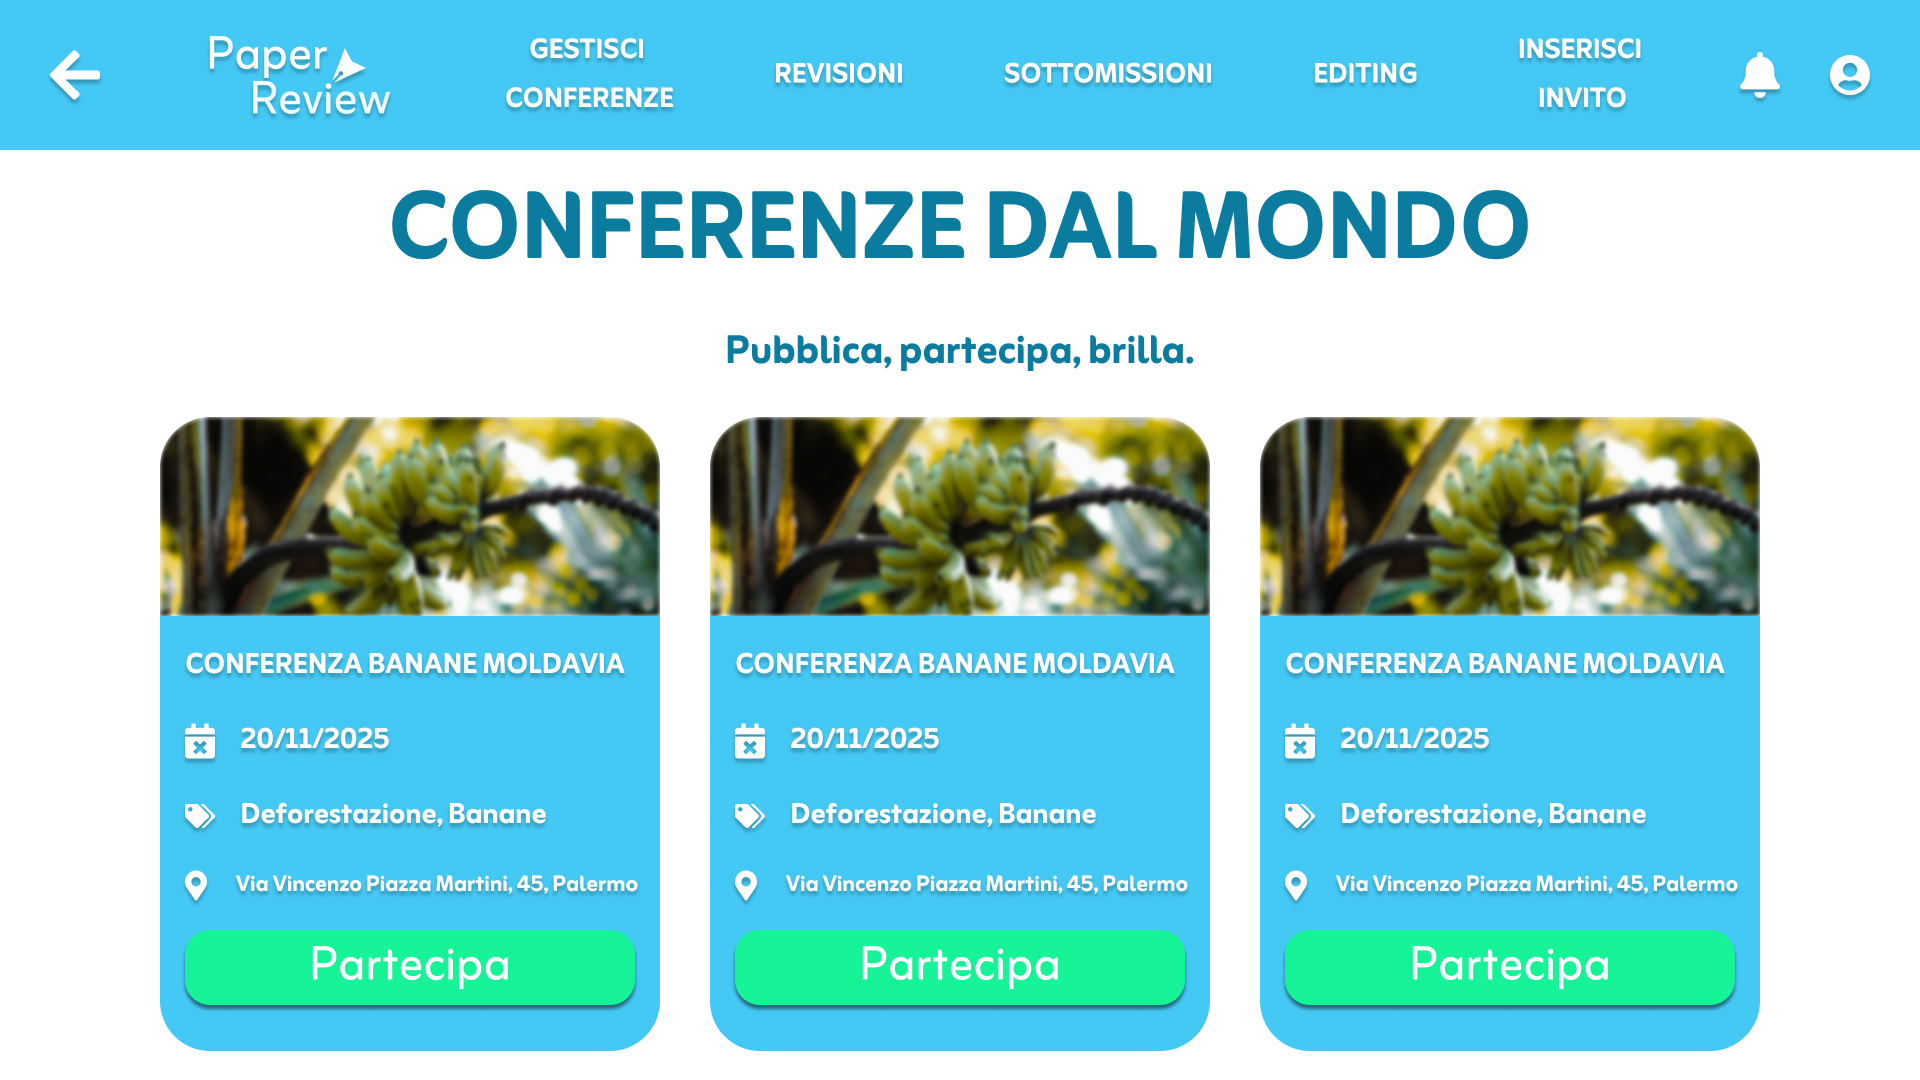
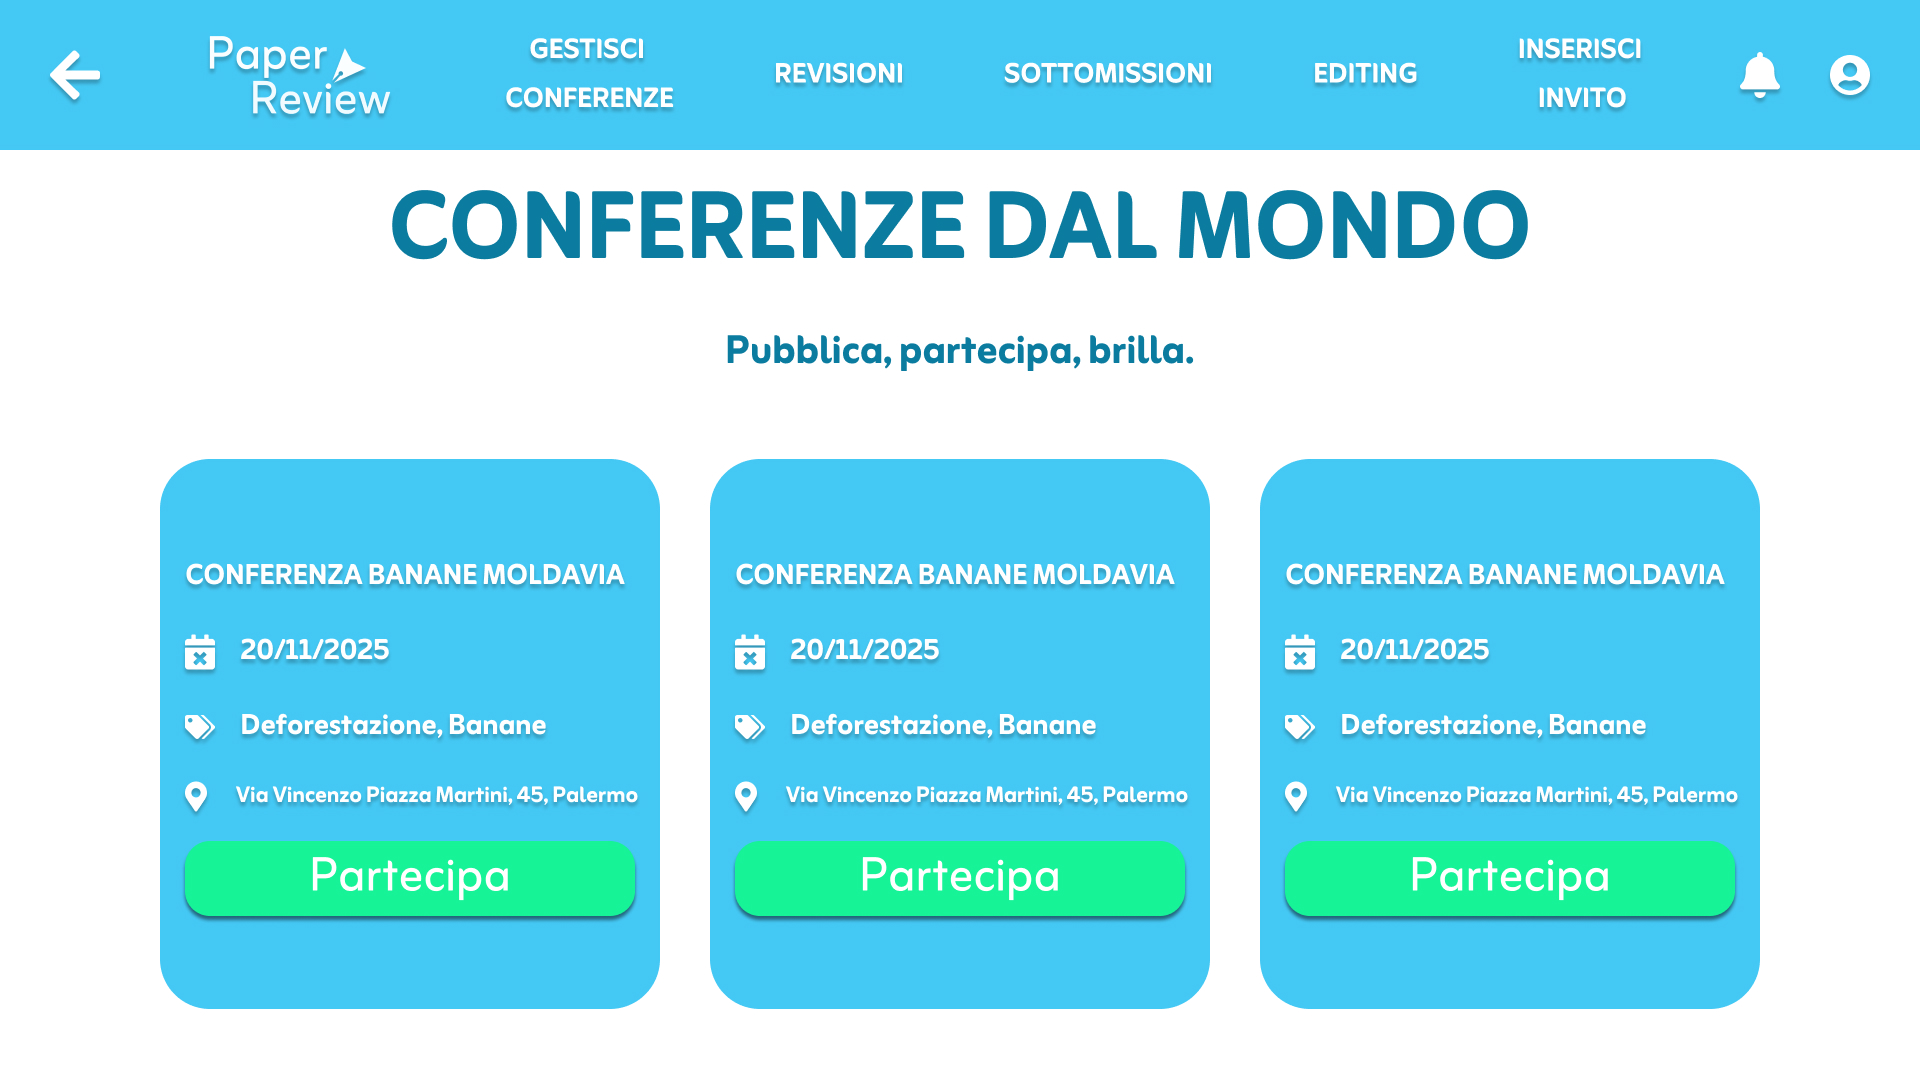
Cambiati alcuni mockup, sistemata home control per conferenze nulle

diff --git a/Codice/Paper Review/src/main/java/com/paperreview/paperreview/common/dao/ConferenzaDao.java b/Codice/Paper Review/src/main/java/com/paperreview/paperreview/common/dao/ConferenzaDao.java
@@ -1,19 +1,40 @@
 package com.paperreview.paperreview.common.dao;
 
 import com.paperreview.paperreview.entities.ConferenzaEntity;
+import com.paperreview.paperreview.entities.InvitoEntity;
+import com.paperreview.paperreview.entities.InvitoStatusEnum;
 import com.paperreview.paperreview.entities.UtenteEntity;
 
-import java.sql.Connection;
-import java.sql.PreparedStatement;
-import java.sql.ResultSet;
-import java.sql.SQLException;
+import java.sql.*;
+import java.time.LocalDateTime;
+import java.util.ArrayList;
 import java.util.HashSet;
+import java.util.List;
 import java.util.Set;
 
 public class ConferenzaDao extends BaseDao<ConferenzaEntity> {
 
     public ConferenzaDao(Connection connection) {
         super(connection, "Conferenza", "id_conferenza");
+    }
+
+    @Override
+    public List<ConferenzaEntity> getAll(){
+        List<ConferenzaEntity> results = new ArrayList<>();
+        String query = "SELECT * FROM " + tableName + " WHERE data_conferenza > ? ORDER BY data_conferenza";
+
+        try (PreparedStatement stmt = connection.prepareStatement(query)) {
+            stmt.setTimestamp(1, Timestamp.valueOf(LocalDateTime.now())); // Imposta la data attuale
+            try (ResultSet rs = stmt.executeQuery()) {
+                while (rs.next()) {
+                    results.add(mapRow(rs)); // Aggiungi ogni riga trovata
+                }
+            }
+        } catch (SQLException e) {
+            e.printStackTrace();
+        }
+
+        return results;
     }
 
     @Override

diff --git a/Codice/Paper Review/src/main/java/com/paperreview/paperreview/controls/HomeControl.java b/Codice/Paper Review/src/main/java/com/paperreview/paperreview/controls/HomeControl.java
@@ -40,14 +40,23 @@ public class HomeControl implements ControlledScreen {
 
             conferenzeContainer.getChildren().clear();
 
-            for(int i = 0; i < 10; i++){
+            if(conferenze.isEmpty())
+            {
+                Label testo = new Label("Ancora non è stata pubblicata nessuna conferenza!");
+                testo.getStyleClass().addAll("font-bold", "text-rosso", "h5");
+                testo.setWrapText(true);
+                testo.setPrefWidth(500);
+                testo.setAlignment(Pos.CENTER);
+
+                conferenzeContainer.getChildren().add(testo);
+            }
+            else
+            {
                 for (ConferenzaEntity c : conferenze) {
                     VBox card = creaCardConferenza(c);
                     conferenzeContainer.getChildren().add(card);
                 }
             }
-
-
 
         }catch(SQLException e){
             e.printStackTrace();
